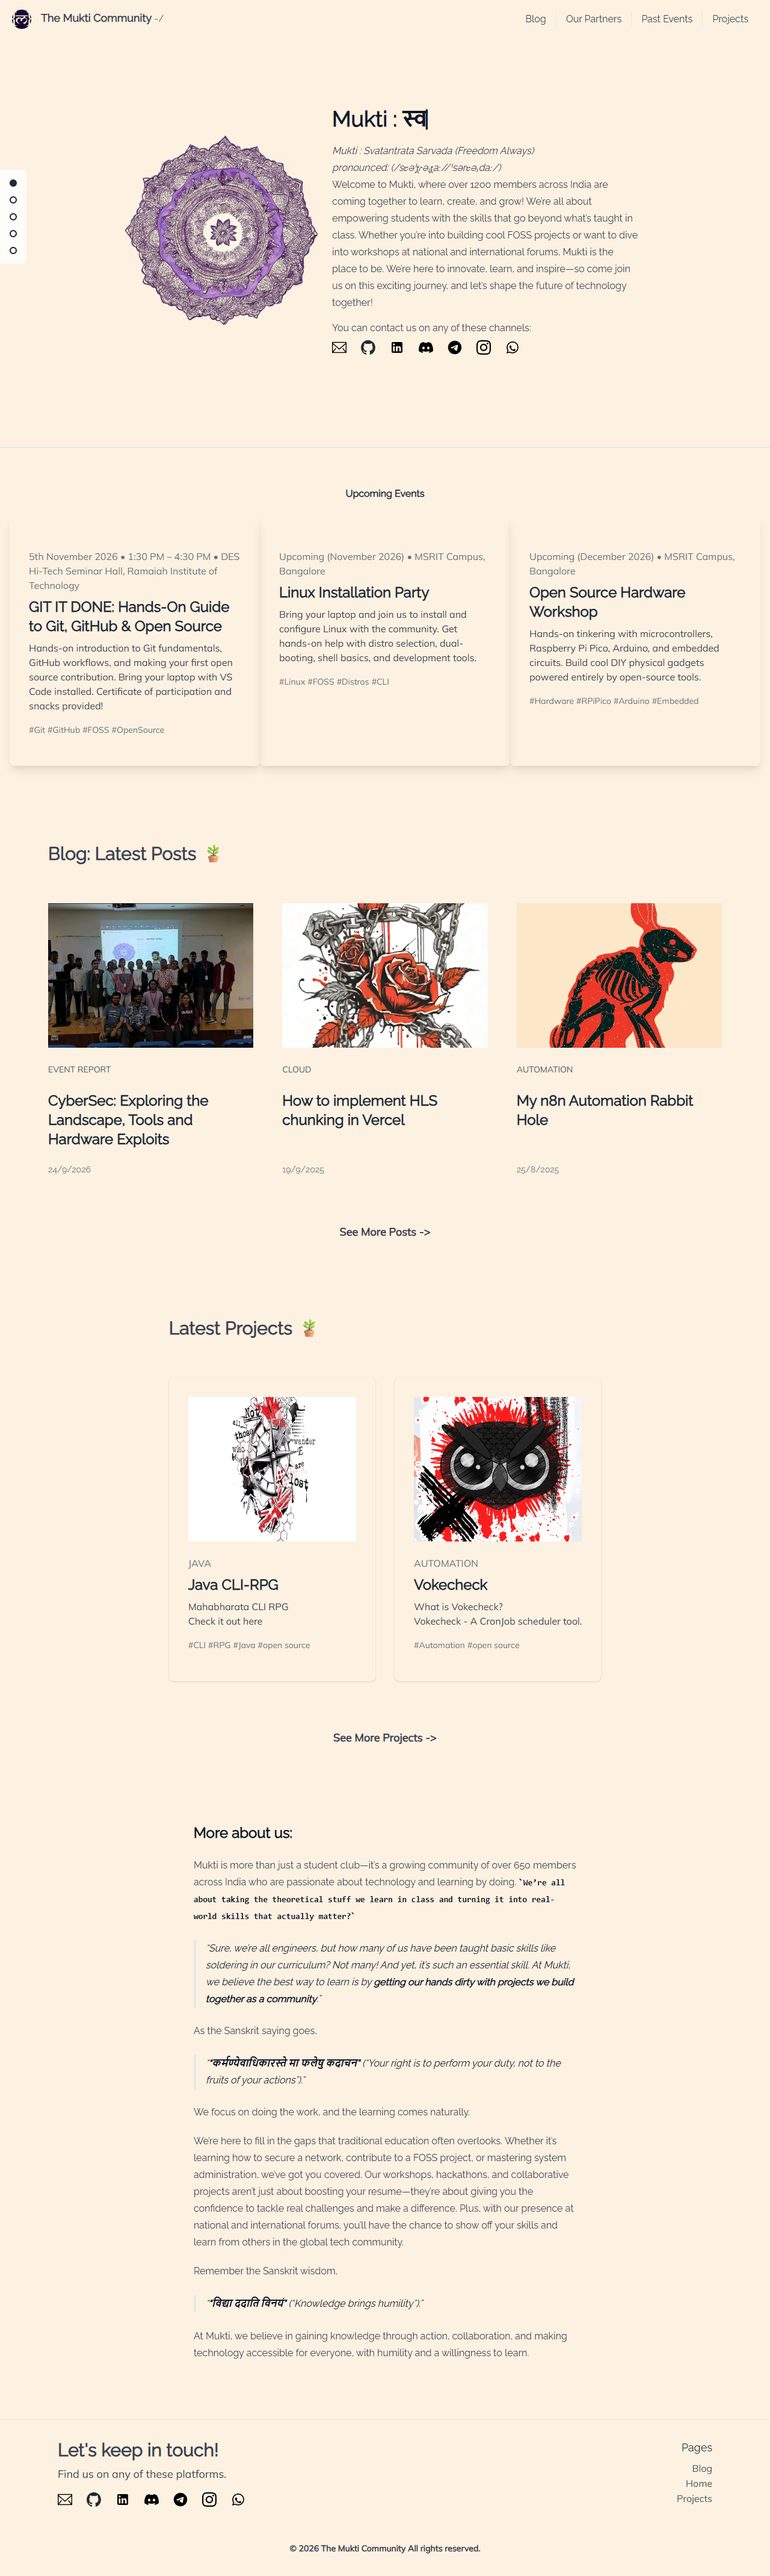
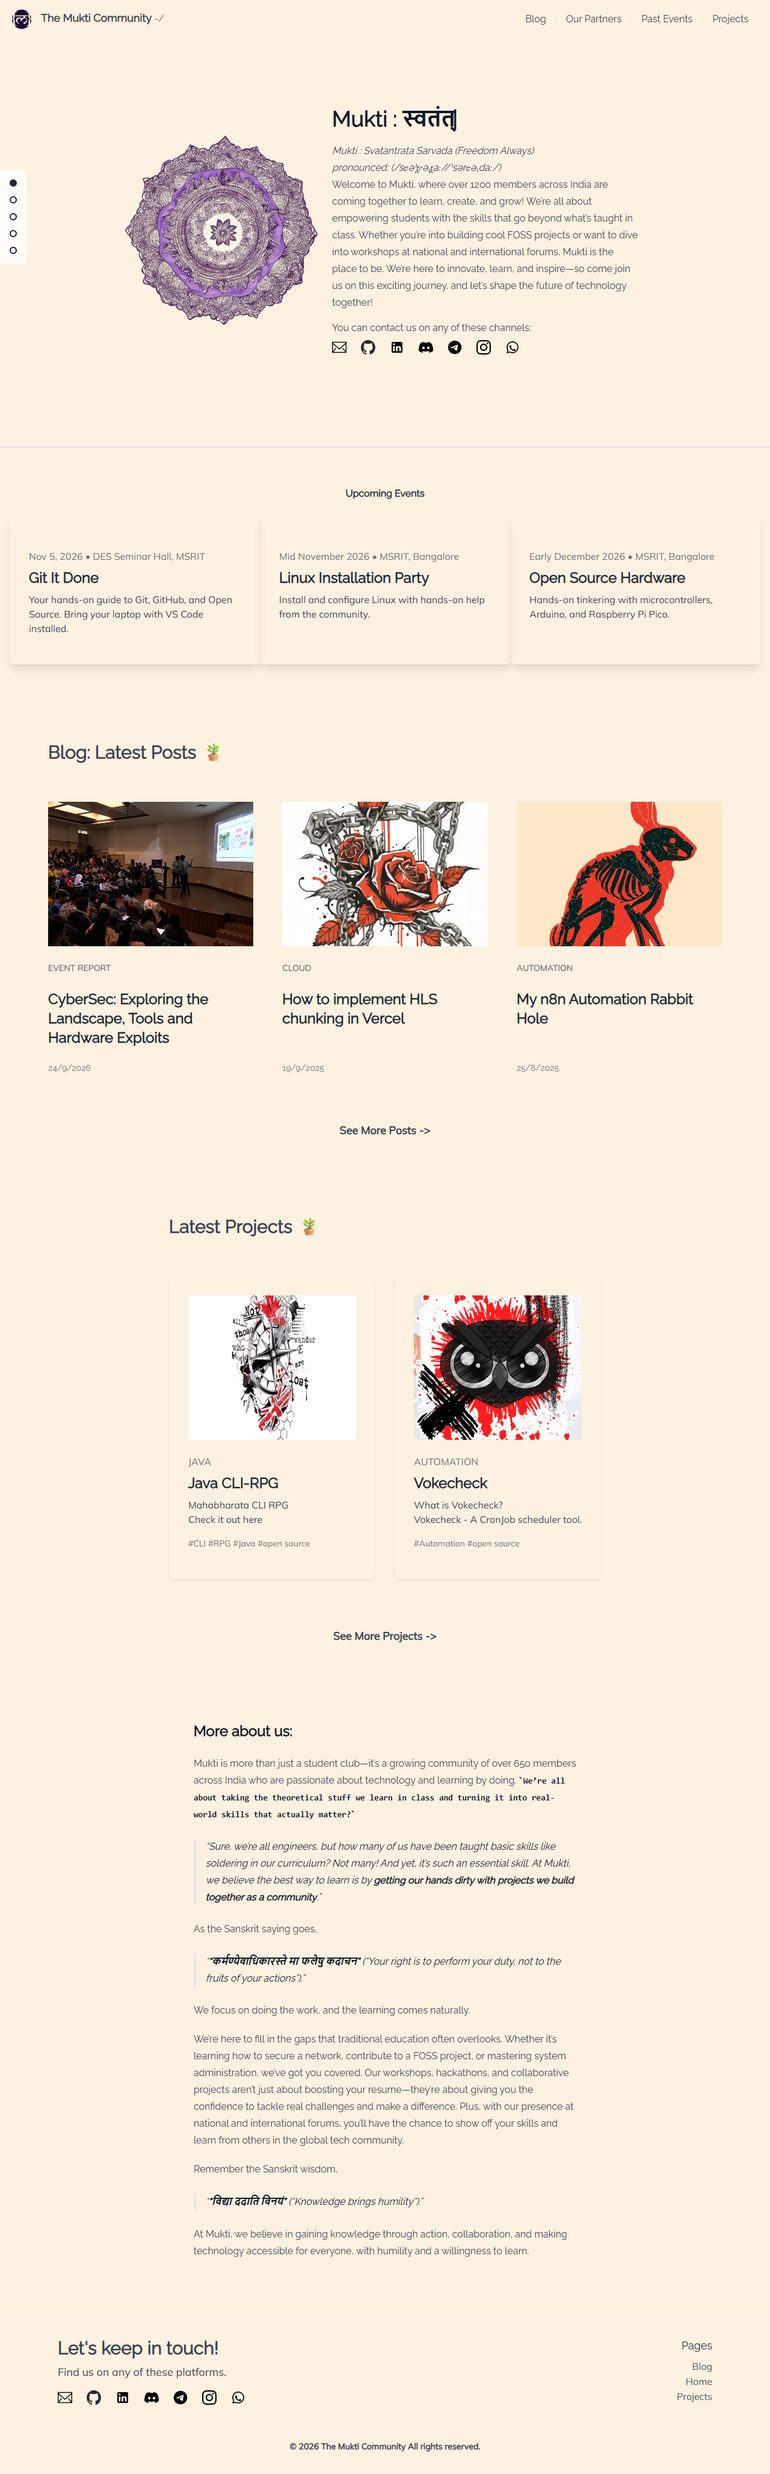
fix: shorten event cards, use event talk thumbnail, deduplicate post images, remove redundant links and fix broken image

diff --git a/_includes/event_card.html b/_includes/event_card.html
@@ -1,12 +1,6 @@
 <div class="rounded-lg hover:bg-gray-50 p-8 shadow-lg transition-transform transform hover:scale-105">
     <p class="font-mulish text-gray-500 mt-6 mb-2">{{include.event.date}} • {{include.event.location}}</p>
-    {% if include.event.link %}
-    <h2 class="text-2xl hover:underline font-bold my-2 text-gray-800">
-      <a href="{{include.event.link}}" target="_blank">{{include.event.title}}</a>
-    </h2>
-    {% else %}
     <h2 class="text-2xl hover:underline font-bold my-2 text-gray-800">{{include.event.title}}</h2>
-    {% endif %}
     <div class="font-mulish text-gray-700">
       {{include.event.description}}
     </div>

diff --git a/_layouts/project.html b/_layouts/project.html
@@ -8,7 +8,9 @@ layout: default
   <div id="post" class="prose max-w-[75ch] prose-neutral mx-auto pb-10 pt-20 lg:pt-[90px] lg:pb-20">
     <h1 class="text-left text-2xl font-bold md:text-5xl text-black">{{page.title}}</h1>
 
-    <img src="{{page.image}}" alt="{{page.title}}">
+    {% if page.image and page.image != "" %}
+    <img src="{{page.image | relative_url}}" alt="{{page.title}}">
+    {% endif %}
 
     <div class="my-6">
       {{content}}

diff --git a/_posts/2026-09-24-CyberSec-Landscape.md b/_posts/2026-09-24-CyberSec-Landscape.md
@@ -4,7 +4,7 @@ title: "CyberSec: Exploring the Landscape, Tools and Hardware Exploits"
 date: 2026-09-24
 category: [event report, cyber security]
 tags: [event_doc, cyber security, hardware, tools]
-image: /assets/images/cyber_event_stage.jpg
+image: /assets/images/cybersec_talk_stage.jpg
 author: San, Praneel
 comments: true
 ---
@@ -126,10 +126,6 @@ Theory only gets you so far. We set up an active target challenge for attendees 
 - Solve the challenge: [satark_4 CTF](https://chrompycoder.github.io/satark_4/)
 
 ---
-
-### doubts
-
-For any doubts, questions, or bugs, reach out to Mukti Core on our [telegram group](https://t.me/MuktiCommunity) or ping the *Tech-help* section on the group.
 
 ### credits
 

diff --git a/past_events.md b/past_events.md
@@ -5,7 +5,7 @@ nav: true
 hide_sharing: true
 ---
 
-![image](https://github.com/user-attachments/assets/6132b2a1-07e1-4028-8db5-1c99ee12944a)
+![Past Events - Session at DES Seminar Hall](/assets/images/cybersec_speaker_stage.jpg)
 
 ## Past Events Conducted by Mukti
 
